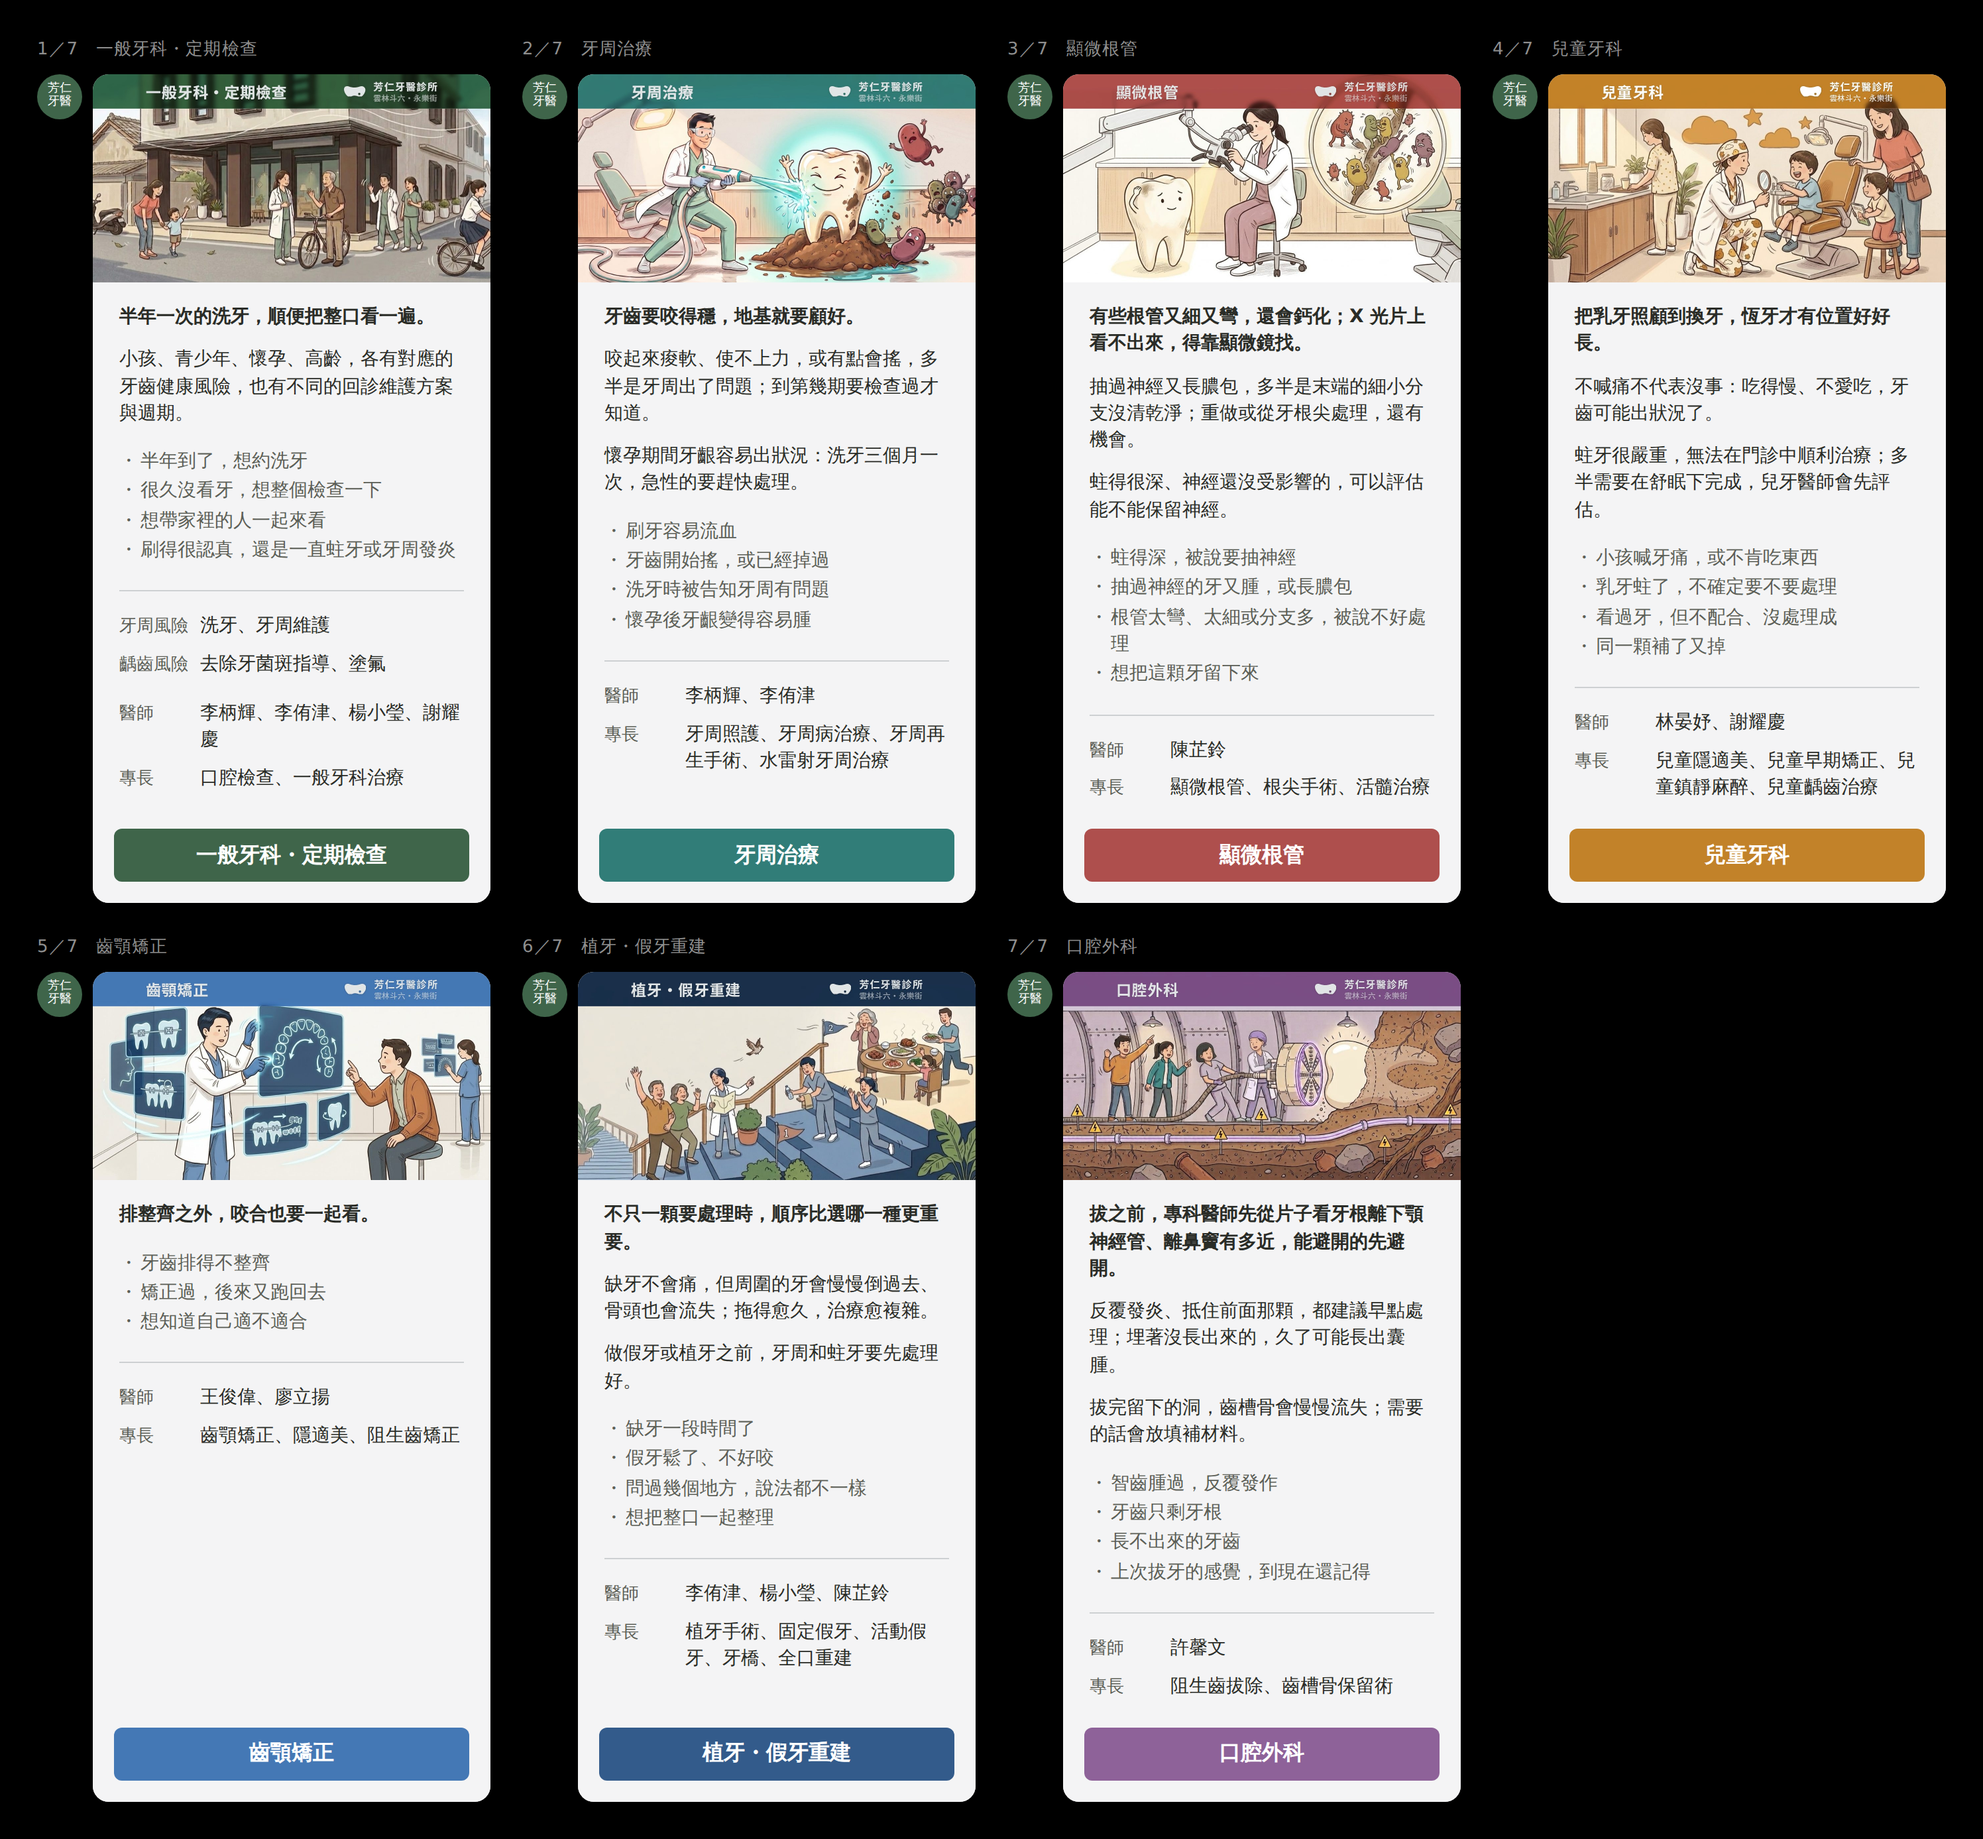
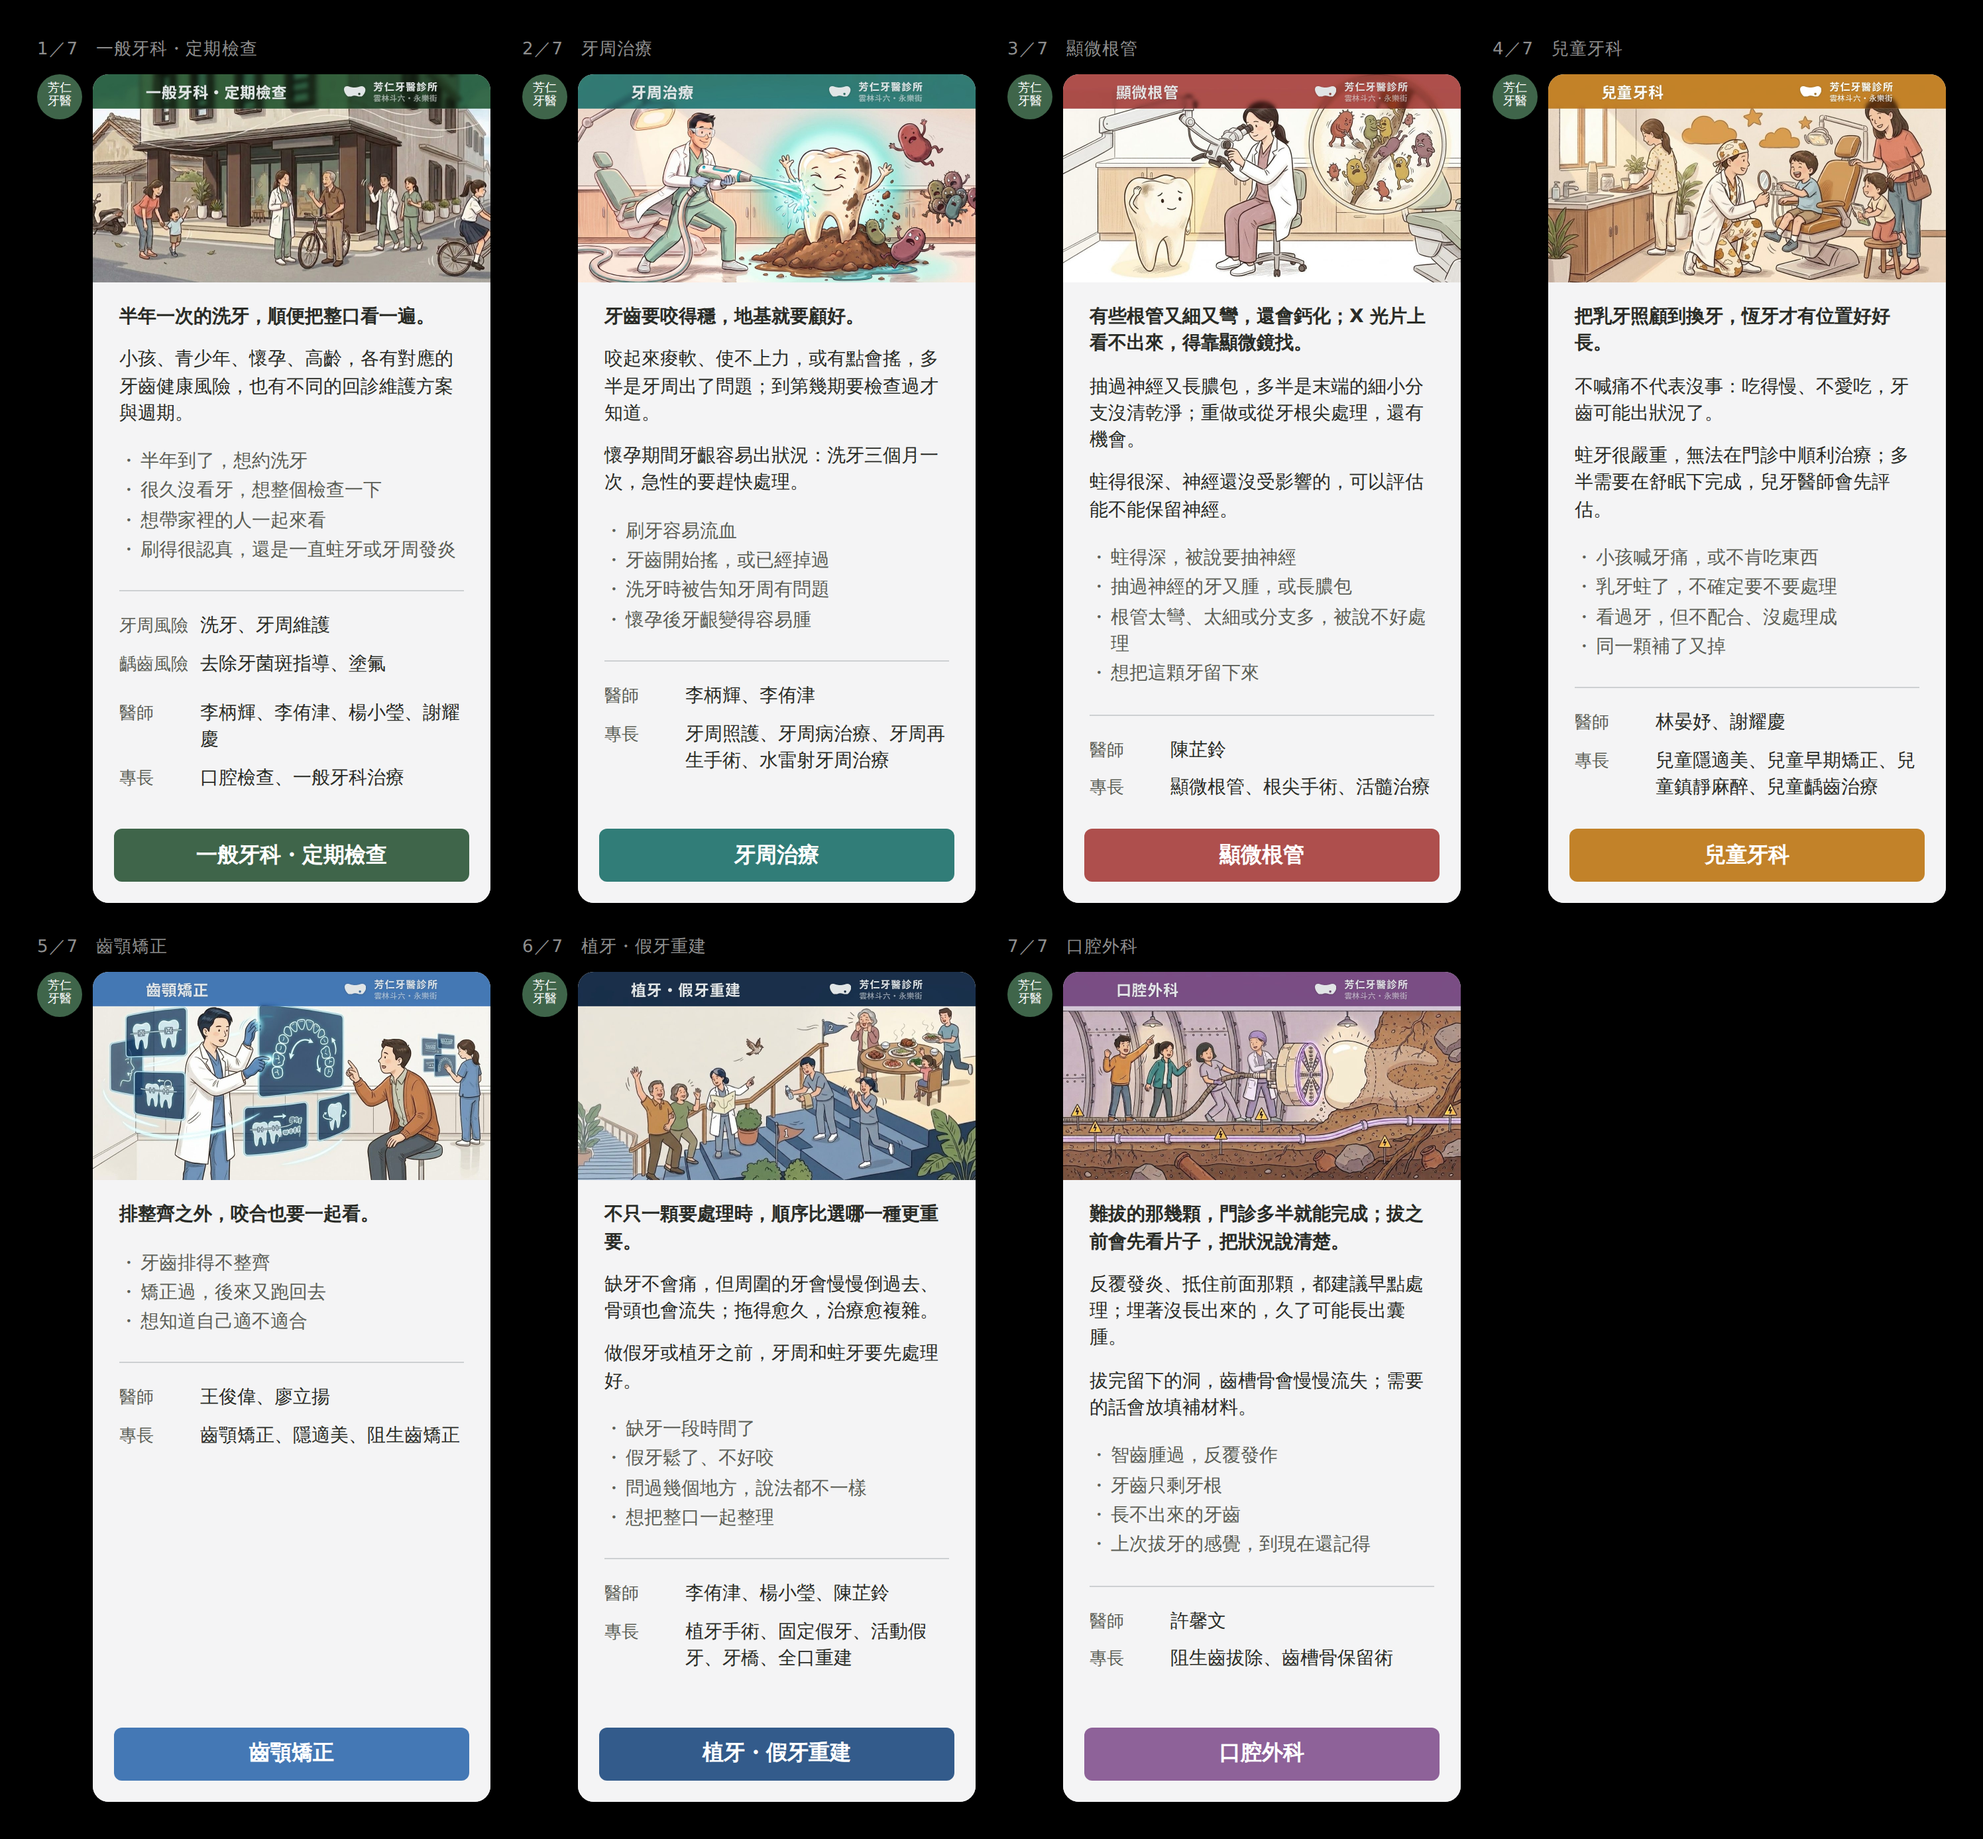
口外開場再改：拿掉解剖名詞與條件句，先講「門診多半就能完成」
使用者一次點了三件：「那不能避開怎麼辦……」「有必要把解剖構造在這個圖卡上講這麼
清楚嗎？這樣也只是給了一個名詞而已，病人真的懂嗎？」「我感覺倒是有堆疊恐懼壓力
的感覺。」

兩條新的紅線（已補進 TEAM.md 臨床顧問）：
・條件句會招來反問。「能避開的先避開」「適合的才做」這一類，讀的人會自動問
  「那不是的呢」，而短文案沒有空間回答。要嘛答得出來，要嘛不要寫。
  ⚠ 和頻率詞不同：「多半門診就能完成」講的是常態，沒有先切出一群例外。
・給名詞不等於給理解。下顎神經管、鼻竇、穿孔對民眾只是聽起來很危險的詞，
  他不會因此更懂，只會更怕。沒有空間解釋的名詞就不要出現。

定案：「難拔的那幾顆，門診多半就能完成；拔之前會先看片子，把狀況說清楚。」
← flow［當天］「局部麻醉，多半門診就能完成」＋stance＋flow［先看片］。
順序刻意把「門診多半就能完成」放前面：讀者已經決定要拔、卡在怕，他最需要先知道
的是這件事有多大，不是醫師在片子上看什麼。

沒寫「局部麻醉」（對怕打針的人是另一個畫面）；沒寫轉診那一側（門診手術與轉診的
分界還沒問到，寫了會變成另一個答不出來的反問）。

Claude-Session: https://claude.ai/code/session_01QMa36HgXCp2rYEV7ykbWqK

Changed region(s): [[0.5284, 0.651, 0.7149, 0.9301]]

diff --git a/TEAM.md b/TEAM.md
@@ -331,10 +331,15 @@
   - ⚠⚠ **寫開場之前先問「他點進來的時候，決定做完了沒」。**
     2026-08-27 踩過：口外那張開場問「要不要拔」，可是會點進來的人**多半已經
     決定要拔、卡在怕** —— 問一個他早就答完的問題，等於沒接到他。
-  - ⚠⚠ **要傳達風險的份量，用解剖位置與處理方式，不要用併發症的名字。**
-    「鼻竇穿孔」「侵犯神經」放在一張 300px 的卡片上一定被讀成恐嚇；
-    「離下顎神經管、離鼻竇有多近，能避開的先避開」份量到了，**畫面沒有塞進去**。
-    （近親：COPY.md 第九之十八節「提到鐵鎚敲就等於把畫面塞進他腦子裡」。）
+  - ⚠⚠⚠ **條件句會招來反問。**「**能避開的**先避開」「**適合的**才做」這一類，
+    讀的人會自動問「**那不是的呢**」，而短文案沒有空間回答。
+    **要嘛答得出來，要嘛不要寫。**
+    ⚠ 和**頻率詞**不同：「**多半**門診就能完成」講的是常態，沒有先切出一群例外。
+  - ⚠⚠⚠ **給名詞不等於給理解。** 解剖構造、術式名稱、併發症的名字
+    （下顎神經管、鼻竇、穿孔）對民眾只是聽起來很危險的詞 ——
+    **他不會因此更懂，只會更怕。沒有空間解釋的名詞就不要出現。**
+    （比 COPY.md 第九之十八節更進一步：那一條說「不要把畫面塞進他腦子裡」，
+      這一條說「**連名詞都不要**」。）
   - ⚠⚠⚠ **立場要從臨床事實長出來，不要從品牌語氣長出來。**
     2026-08-27 踩過：口外那張寫「不是每一顆都要拔」，聽起來像「不過度治療」
     （品牌會喜歡），但**臨床上站不住** —— 埋著沒長出來的智齒，沒有症狀
